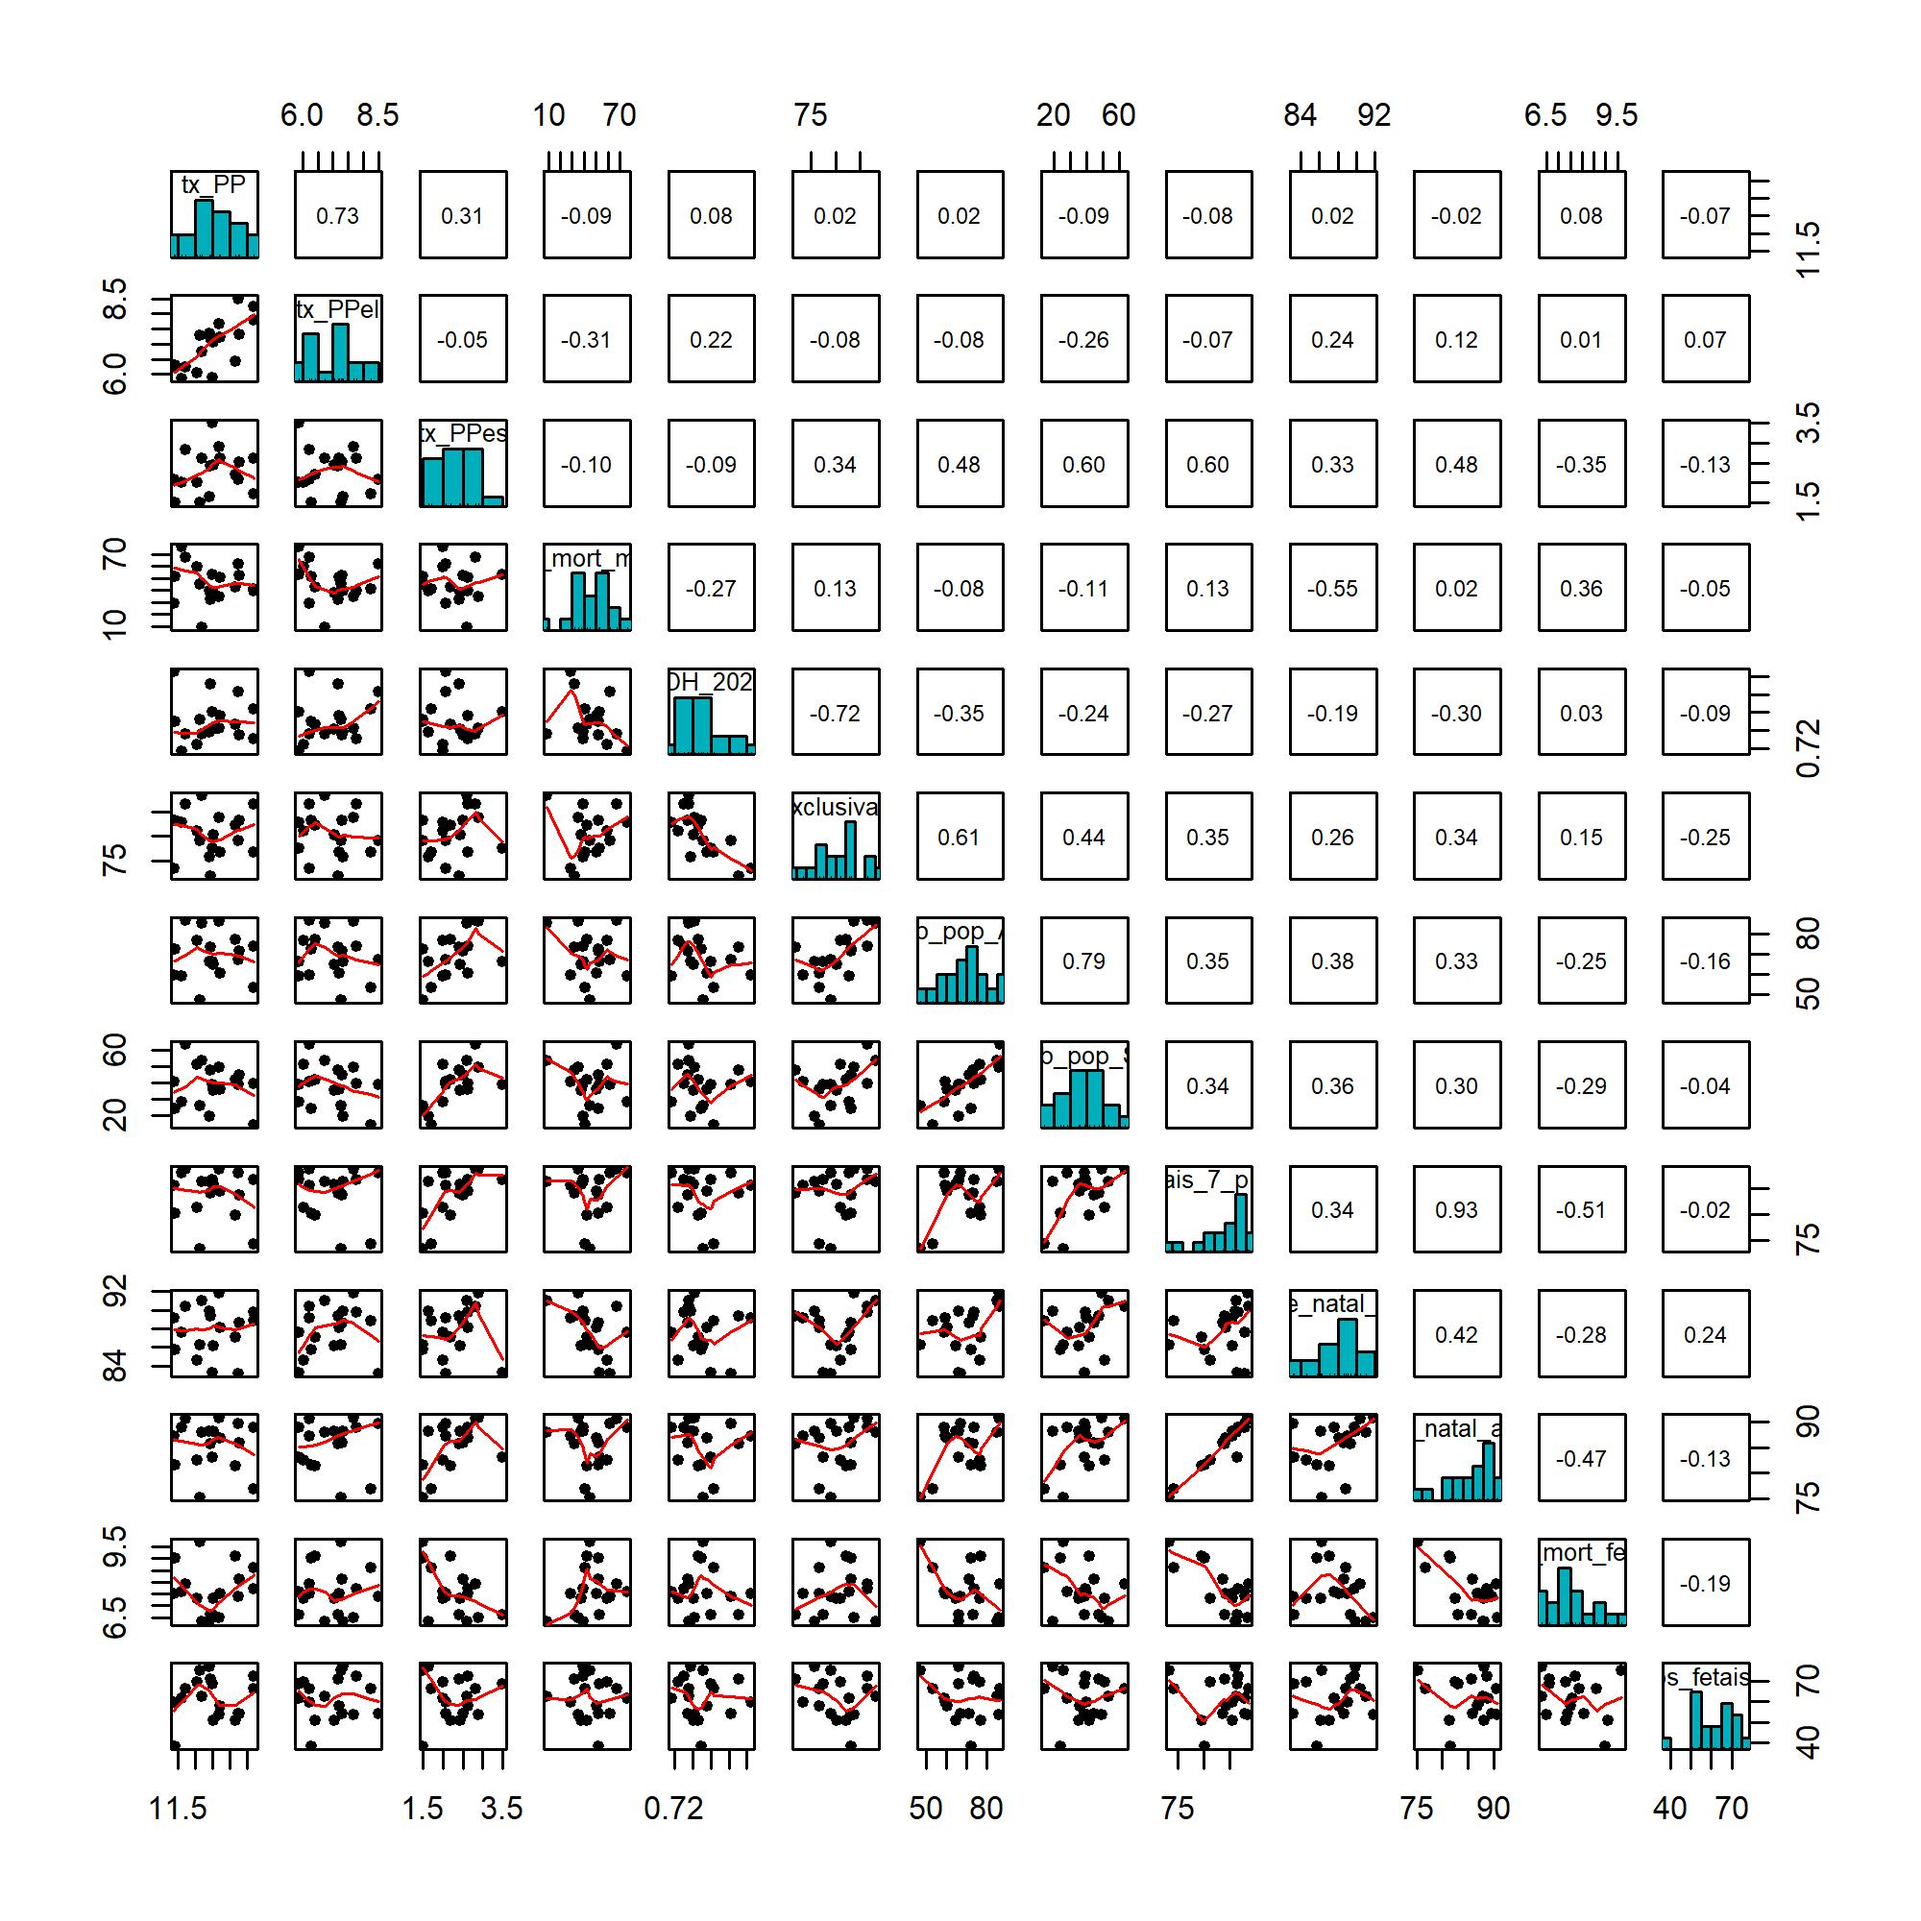
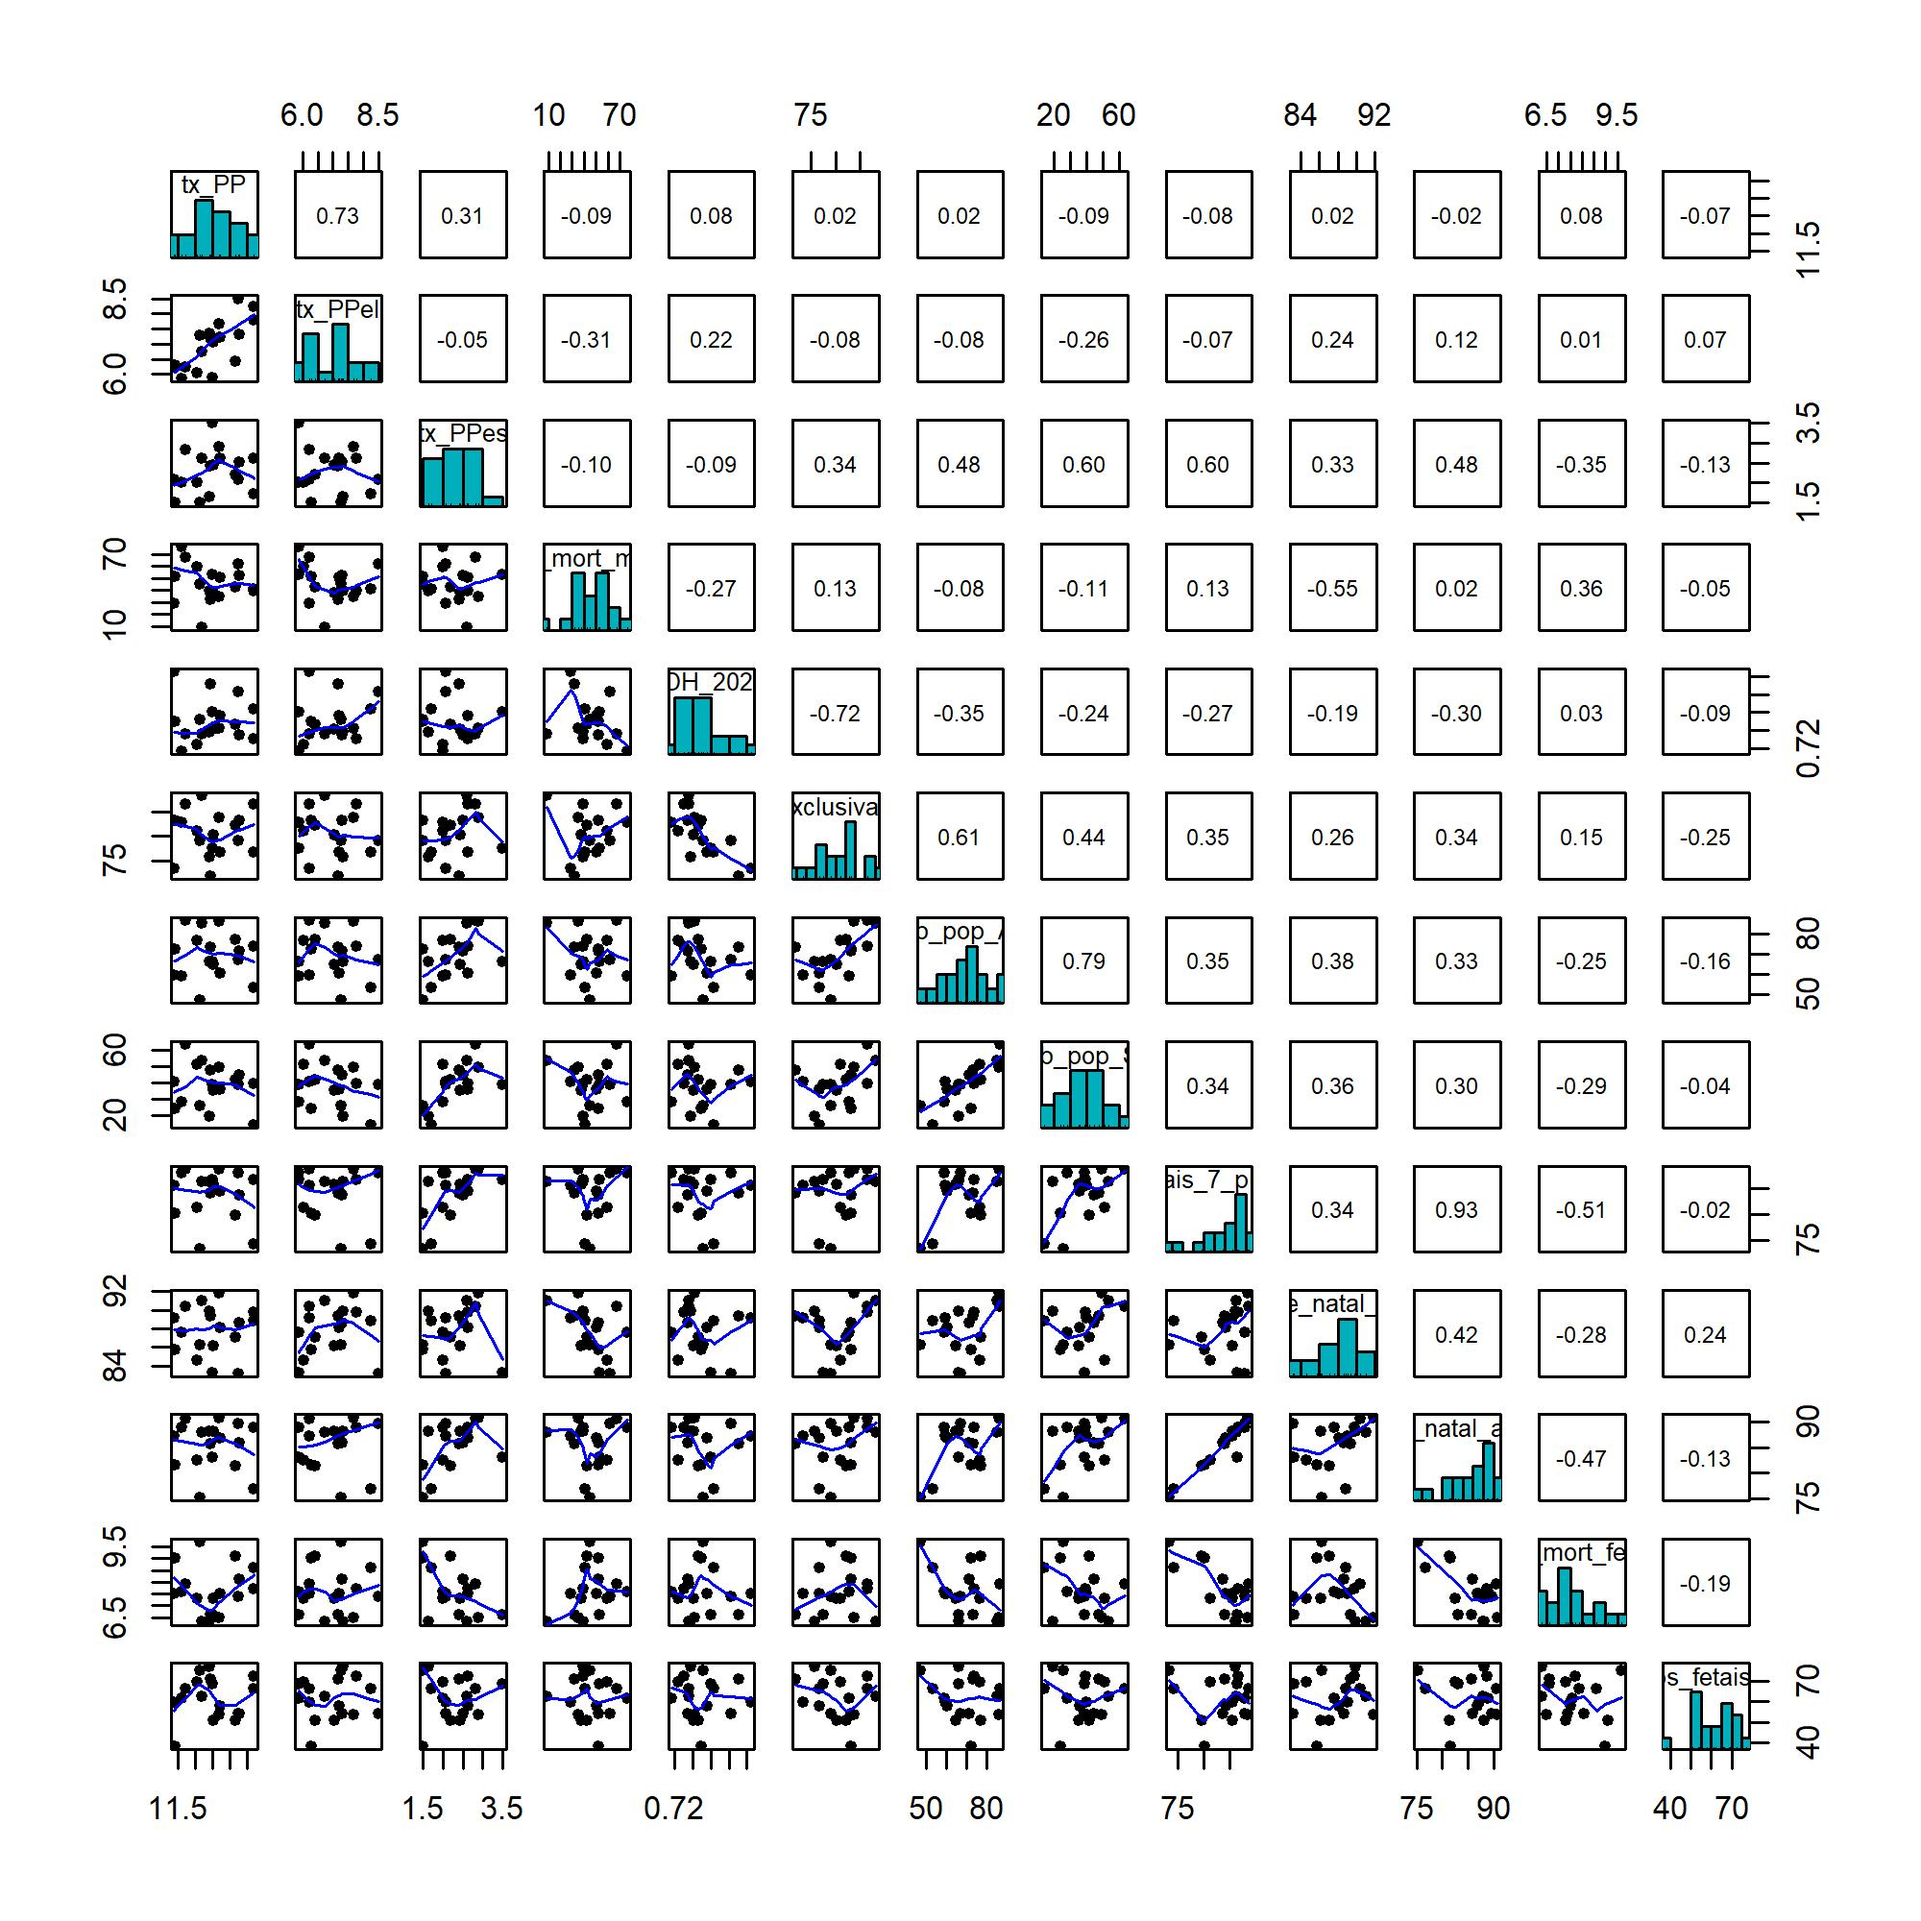
mudanças relatório

diff --git a/analise_correlacao_rras.html b/analise_correlacao_rras.html
@@ -75,6 +75,7 @@ div.csl-indent {
   <li><a href="#variáveis-utilizadas" id="toc-variáveis-utilizadas" class="nav-link" data-scroll-target="#variáveis-utilizadas">Variáveis utilizadas</a></li>
   </ul></li>
   <li><a href="#análise-de-correlação" id="toc-análise-de-correlação" class="nav-link" data-scroll-target="#análise-de-correlação">Análise de correlação</a></li>
+  <li><a href="#texto-para-os-gráficos-de-dispersão-caso-formos-manter-eles-individuais-deixei-os-gráficos-das-correlações-significativas-como-includefalse." id="toc-texto-para-os-gráficos-de-dispersão-caso-formos-manter-eles-individuais-deixei-os-gráficos-das-correlações-significativas-como-includefalse." class="nav-link" data-scroll-target="#texto-para-os-gráficos-de-dispersão-caso-formos-manter-eles-individuais-deixei-os-gráficos-das-correlações-significativas-como-includefalse.">TEXTO PARA OS GRÁFICOS DE DISPERSÃO CASO FORMOS MANTER ELES INDIVIDUAIS? DEIXEI OS GRÁFICOS DAS CORRELAÇÕES SIGNIFICATIVAS COMO INCLUDE=FALSE.</a></li>
   </ul>
 </nav>
 </div>
@@ -172,11 +173,11 @@ div.csl-indent {
 <p>Para fins interpretativos, consideraram-se estatisticamente significativas as correlações com p-valor inferior a 0,05.</p>
 <section id="correlação-de-spearman" class="level2">
 <h2 class="anchored" data-anchor-id="correlação-de-spearman">Correlação de Spearman</h2>
-<p>O coeficiente de correlação de Spearman (<span class="math inline">\(\rho\)</span>) avalia a força e a direção da associação entre duas variáveis através de uma relação monotônica. Trata-se de um método não paramétrico, pois ele não exige a suposição de que os dados sigam uma distribuição normal, sendo baseado nos postos dos valores ao invés dos valores brutos <span class="citation" data-cites="Spearman_1904">(<a href="#ref-Spearman_1904" role="doc-biblioref">Spearman 1904</a>)</span>.</p>
+<p>O coeficiente de correlação de Spearman (rho ou <span class="math inline">\(\rho\)</span>) avalia a força e a direção da associação entre duas variáveis através de uma relação monotônica. Trata-se de um método não paramétrico, pois ele não exige a suposição de que os dados sigam uma distribuição normal, sendo baseado nos postos dos valores ao invés dos valores brutos <span class="citation" data-cites="Spearman_1904">(<a href="#ref-Spearman_1904" role="doc-biblioref">Spearman 1904</a>)</span>.</p>
 <p>O teste avalia as seguintes hipóteses estatísticas:</p>
 <ul>
 <li><p>Hipótese nula (<span class="math inline">\(H_0\)</span>): Não há associação monotônica entre as duas variáveis (as variáveis são independentes).</p></li>
-<li><p>Hipótese alternativa (<span class="math inline">\(H_1\)</span>): Existe uma associação monotônica entre as variáveis (os postos de uma variável tendem a aumentar ou diminuir sistematicamente em relação aos postos da outra).</p></li>
+<li><p>Hipótese alternativa (<span class="math inline">\(H_1\)</span>): Existe uma associação monotônica entre as variáveis (os postos de uma variável tendem a aumentar ou diminuir em relação aos postos da outra).</p></li>
 </ul>
 <p>Dentre os resultados fornecidos por esta análise, destacam-se as seguintes medidas:</p>
 <ul>
@@ -184,7 +185,7 @@ div.csl-indent {
 <li><p>Significância (p-valor): Representa a probabilidade de observar uma correlação tão forte quanto a calculada caso a hipótese nula fosse verdadeira. Assim como em outros testes de associação, considera-se o resultado estatisticamente significativo quando o p-valor é menor que 0.05.</p></li>
 </ul>
 <p>Para a realização das análises no ambiente R, utiliza-se a função nativa <code>cor.test()</code>, especificando o argumento <code>method = "spearman"</code>. Esta função calcula tanto o coeficiente de correlação quanto a significância estatística necessária para a interpretação dos dados.</p>
-<p>Os resultados são apresentados no relatório destacando o coeficiente de correlação (ρ), que indica a magnitude da associação, e o p-valor correspondente, onde p &lt; 0.05 é considerado significativo e p &lt; 0.01 é considerado altamente significativo para rejeitar a independência entre as variáveis.</p>
+<p>Os resultados são apresentados no relatório destacando o coeficiente de correlação, que indica a magnitude da associação, e o p-valor correspondente, onde p &lt; 0.05 é considerado significativo e p &lt; 0.01 é considerado altamente significativo para rejeitar a independência entre as variáveis.</p>
 </section>
 <section id="variáveis-utilizadas" class="level2">
 <h2 class="anchored" data-anchor-id="variáveis-utilizadas">Variáveis utilizadas</h2>
@@ -205,13 +206,15 @@ div.csl-indent {
 <p>Os resultados do teste de Spearman indicam que a taxa de partos prematuros totais apresentou correlação estatisticamente significativa apenas com a taxa de partos prematuros eletivos (p &lt; 0,001), evidenciando que a variação da prematuridade total é fortemente influenciada por esse componente.</p>
 <p>De forma semelhante, a taxa de partos prematuros eletivos apresentou correlação significativa apenas com a prematuridade total, não sendo observadas associações estatisticamente significativas com os demais indicadores analisados.</p>
 <p>Por outro lado, a taxa de partos prematuros espontâneos apresentou correlações estatisticamente significativas com indicadores de acesso e qualidade da atenção à saúde, incluindo a cobertura da atenção básica (p = 0,044), a cobertura da Estratégia Saúde da Família (p = 0,008), a proporção de mulheres com mais de sete consultas de pré-natal (p = 0,009) e a adequação do pré-natal (p = 0,044).</p>
-<div id="fig-pairs" class="quarto-figure quarto-figure-center anchored">
-<figure class="figure">
-<p><img src="f3_graficos/pairs_panels.jpg" class="img-fluid figure-img"></p>
-<figcaption class="figure-caption">Figure&nbsp;2: Painel de dispersão e correlação entre variáveis</figcaption>
-</figure>
-</div>
-<!-- A Figura 2 complementa essa análise ao apresentar o painel de dispersão entre as variáveis, permitindo observar a distribuição dos dados entre as RRAS e possíveis padrões de associação entre os indicadores analisados. -->
+<p>Além disso, avaliando as demais variáveis, verificou-se uma associação positiva altamente significativa (<span class="math inline">\(\rho\)</span> = 0.9293; p = 0.0000) entre a proporção de mulheres com mais de 7 consultas de pré-natal e a proporção de pré-natal adequado, indicando que maiores percentuais de realização de consultas estão relacionados a maior adequação do acompanhamento pré-natal. De forma consistente, a cobertura populacional de atenção básica apresenta associação positiva altamente significativa com a cobertura por equipes de Saúde da Família (<span class="math inline">\(\rho\)</span> = 0.7888; p = 0.0001), evidenciando que maiores níveis de uma cobertura estão relacionados a maiores níveis da outra.</p>
+<p>Por outro lado, observou-se que o IDH de 2022 apresenta associação negativa altamente significativa com a proporção de usuárias exclusivas do SUS (<span class="math inline">\(\rho\)</span> = −0.7176; p = 0.0008), indicando que valores mais elevados de IDH estão relacionados a menores proporções dessa população. Em contrapartida, a cobertura de atenção básica mostra associação positiva altamente significativa com a proporção de usuárias exclusivas do SUS (<span class="math inline">\(\rho\)</span> = 0.6105; p = 0.0071), sugerindo que maiores níveis de cobertura estão associados a maiores proporções de usuárias exclusivas do SUS.</p>
+<p>Por fim, pode-se observar que a proporção de início precoce do pré-natal apresenta associação negativa significativa com a razão de mortalidade materna (<span class="math inline">\(\rho\)</span> = −0.5480; p = 0.0186), assim como a proporção de mulheres com mais de 7 consultas de pré-natal também apresenta associação negativa significativa com a taxa de mortalidade fetal (<span class="math inline">\(\rho\)</span> = −0.5067; p = 0.0319), indicando que o pré-natal iniciado precocemente está relacionado a menores razões de morte materna e que mais de 7 consultas de pré-natal estão relacionadas a menores taxas de mortalidade fetal.</p>
+<!-- ![Painel de dispersão e correlação entre variáveis](f3_graficos/pairs_panels.jpg){#fig-pairs} -->
+<!-- <!-- A Figura 2 complementa essa análise ao apresentar o painel de dispersão entre as variáveis, permitindo observar a distribuição dos dados entre as RRAS e possíveis padrões de associação entre os indicadores analisados. -->
+<p>–&gt;</p>
+</section>
+<section id="texto-para-os-gráficos-de-dispersão-caso-formos-manter-eles-individuais-deixei-os-gráficos-das-correlações-significativas-como-includefalse." class="level1">
+<h1>TEXTO PARA OS GRÁFICOS DE DISPERSÃO CASO FORMOS MANTER ELES INDIVIDUAIS? DEIXEI OS GRÁFICOS DAS CORRELAÇÕES SIGNIFICATIVAS COMO INCLUDE=FALSE.</h1>
 <div class="cell">
 <div class="cell-output-display">
 <table class="table table-striped table-hover table-condensed table-sm small" data-quarto-postprocess="true">
